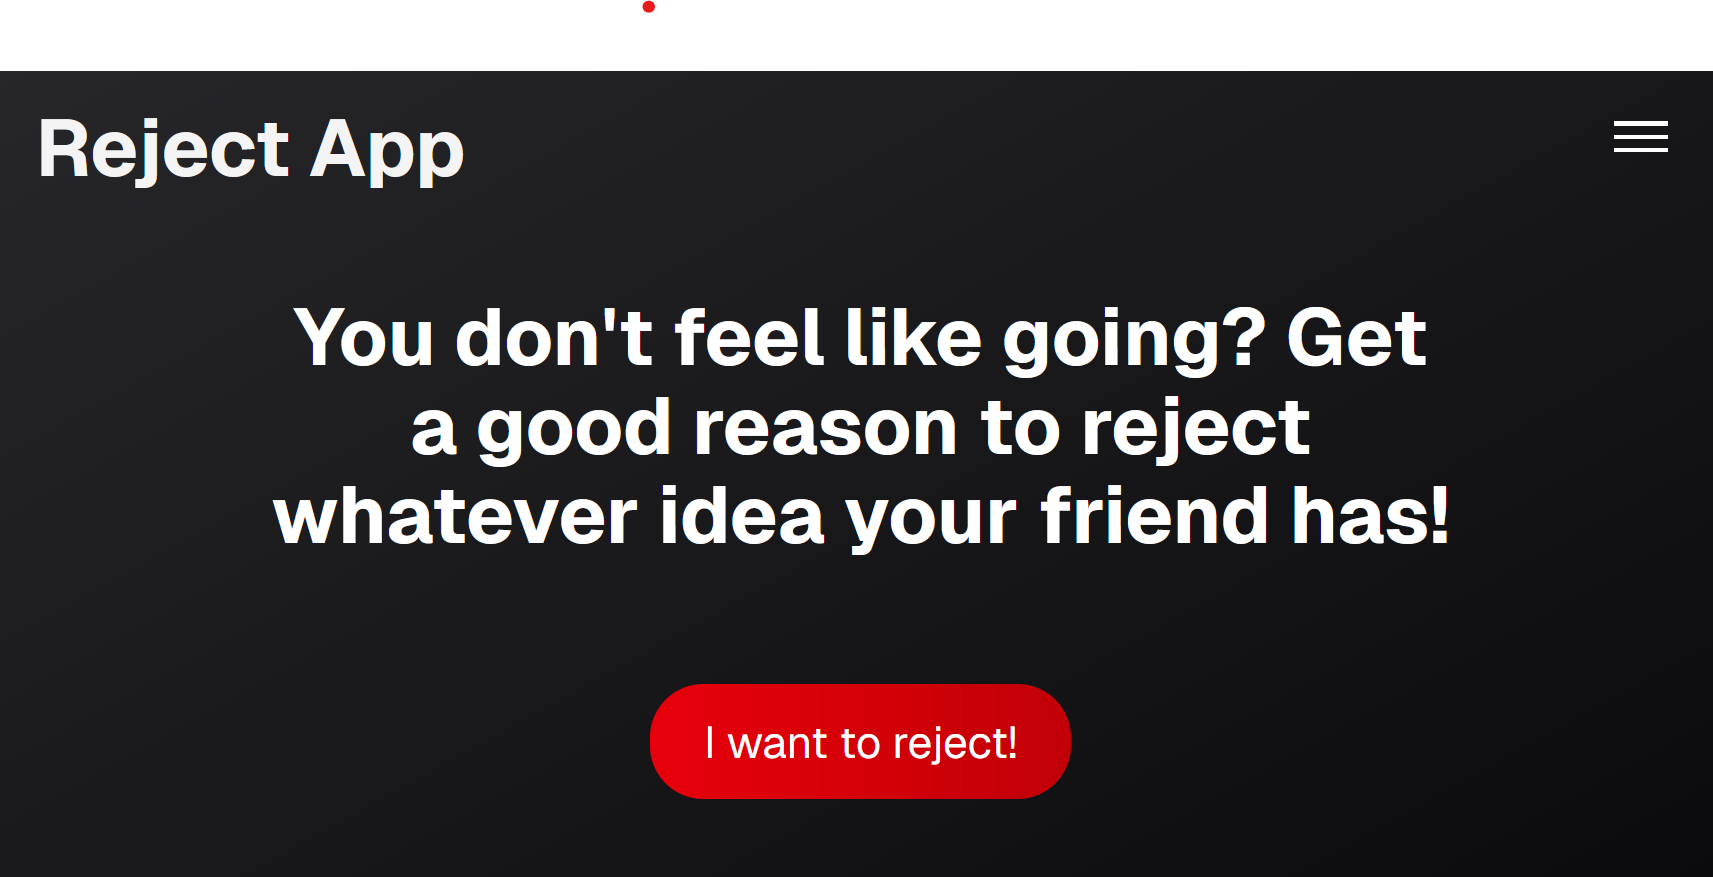
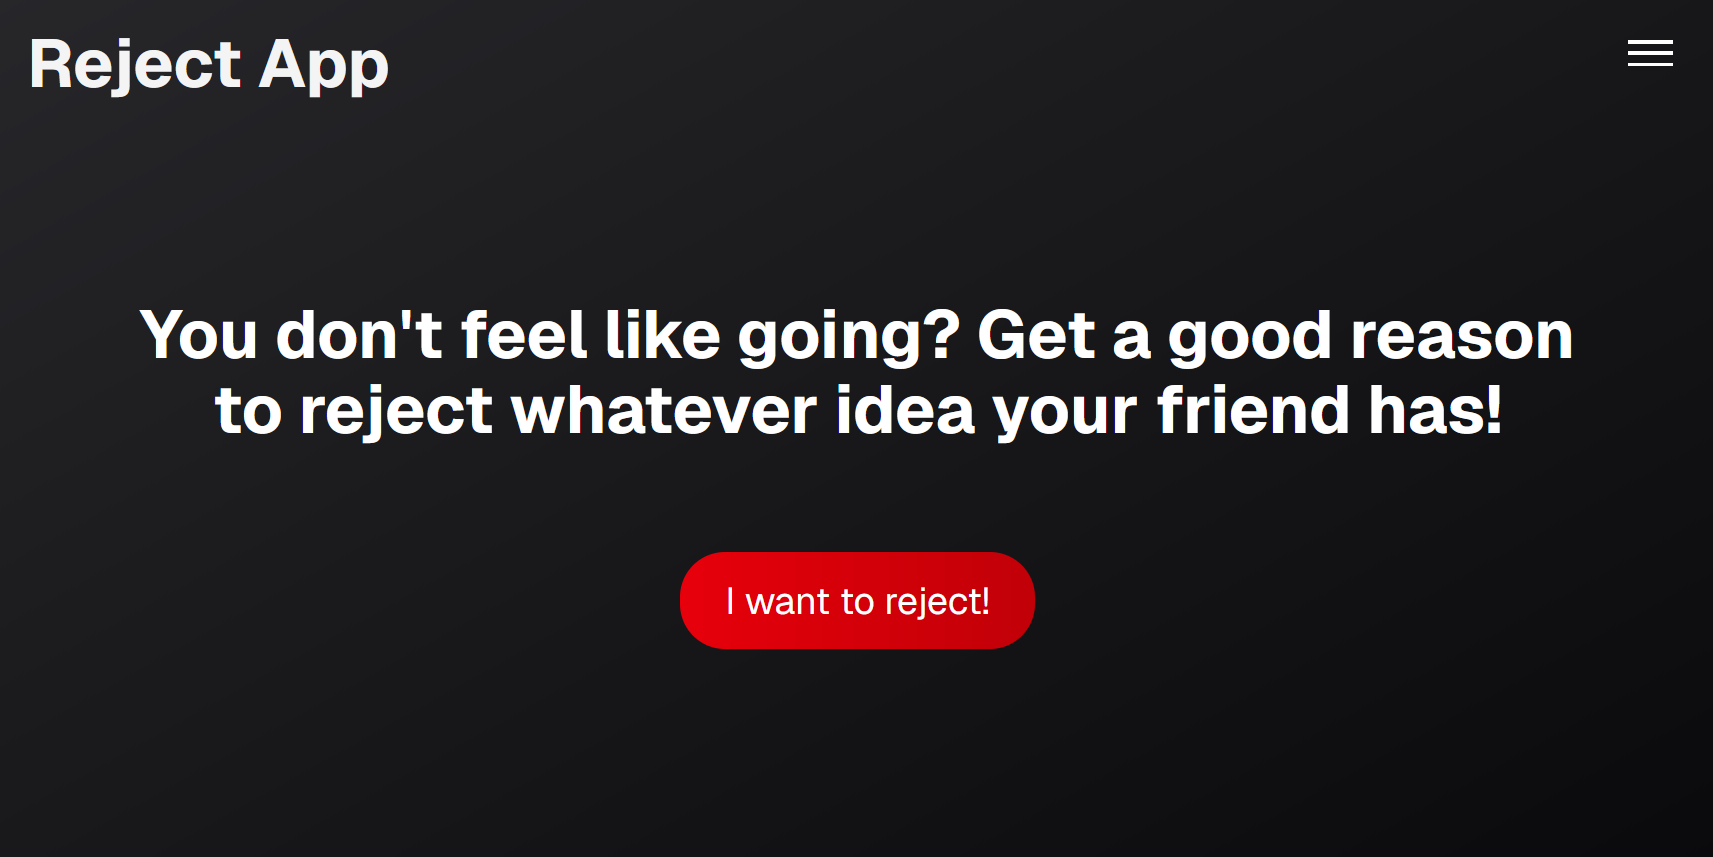
No-part finished

Changed region(s): [[0.0619, 0.3337, 0.9282, 0.9102], [0.0, 0.0, 1.0, 0.2124], [0.9282, 0.1214, 0.9901, 0.182]]

diff --git a/components/SiteCard.tsx b/components/SiteCard.tsx
@@ -1,3 +1,5 @@
+import { redirect } from "next/navigation";
+
 
 interface SiteCardProps {
   title: string;
@@ -7,8 +9,14 @@ interface SiteCardProps {
 }
 
 export function SiteCard({ title, description, imageUrl, link }: SiteCardProps) {
+
+    const handleClick = () => {
+        redirect(link);
+    }
+
+
     return (
-        <div className="max-w-sm rounded overflow-hidden shadow-lg bg-neutral-900 border border-gray-700">
+        <div className="cursor-pointer max-w-sm rounded-2xl overflow-hidden shadow-lg bg-neutral-900 transition duration-300 hover:-translate-y-1" onClick={handleClick}>
             <img className="w-full" src={imageUrl} alt={title} />
             <div className="px-6 py-4"> 
                 <h2 className="text-xl font-bold mb-2">{title}</h2>

diff --git a/app/page.tsx b/app/page.tsx
@@ -2,7 +2,21 @@
 
 import { redirect } from "next/navigation";
 import { useState, useEffect } from "react";
+import { SiteCard } from "@/components/SiteCard";
 
 export default function Home() {
-  redirect("/no");
+  return (
+  <div className="flex flex-col items-center justify-center min-h-screen py-2 bg-zinc-800">
+    <h1 className="absolute top-4 text-4xl font-bold mb-4 text-white">Fun Site</h1>
+    <p className="absolute top-20 text-lg text-gray-300">
+      This is a fun site where you can explore various projects and ideas. Below you can choose from my projects.
+    
+    </p>
+    <SiteCard 
+      title="No Site"
+      description="A site where you can get funny rejections."
+      imageUrl="/no.png"
+      link="/no"
+    />
+  </div>)
 }

diff --git a/app/layout.tsx b/app/layout.tsx
@@ -1,5 +1,6 @@
 import type { Metadata } from "next";
 import { Geist, Geist_Mono } from "next/font/google";
+// @ts-expect-error CSS imports are handled by Next.js
 import "./globals.css";
 
 const geistSans = Geist({
